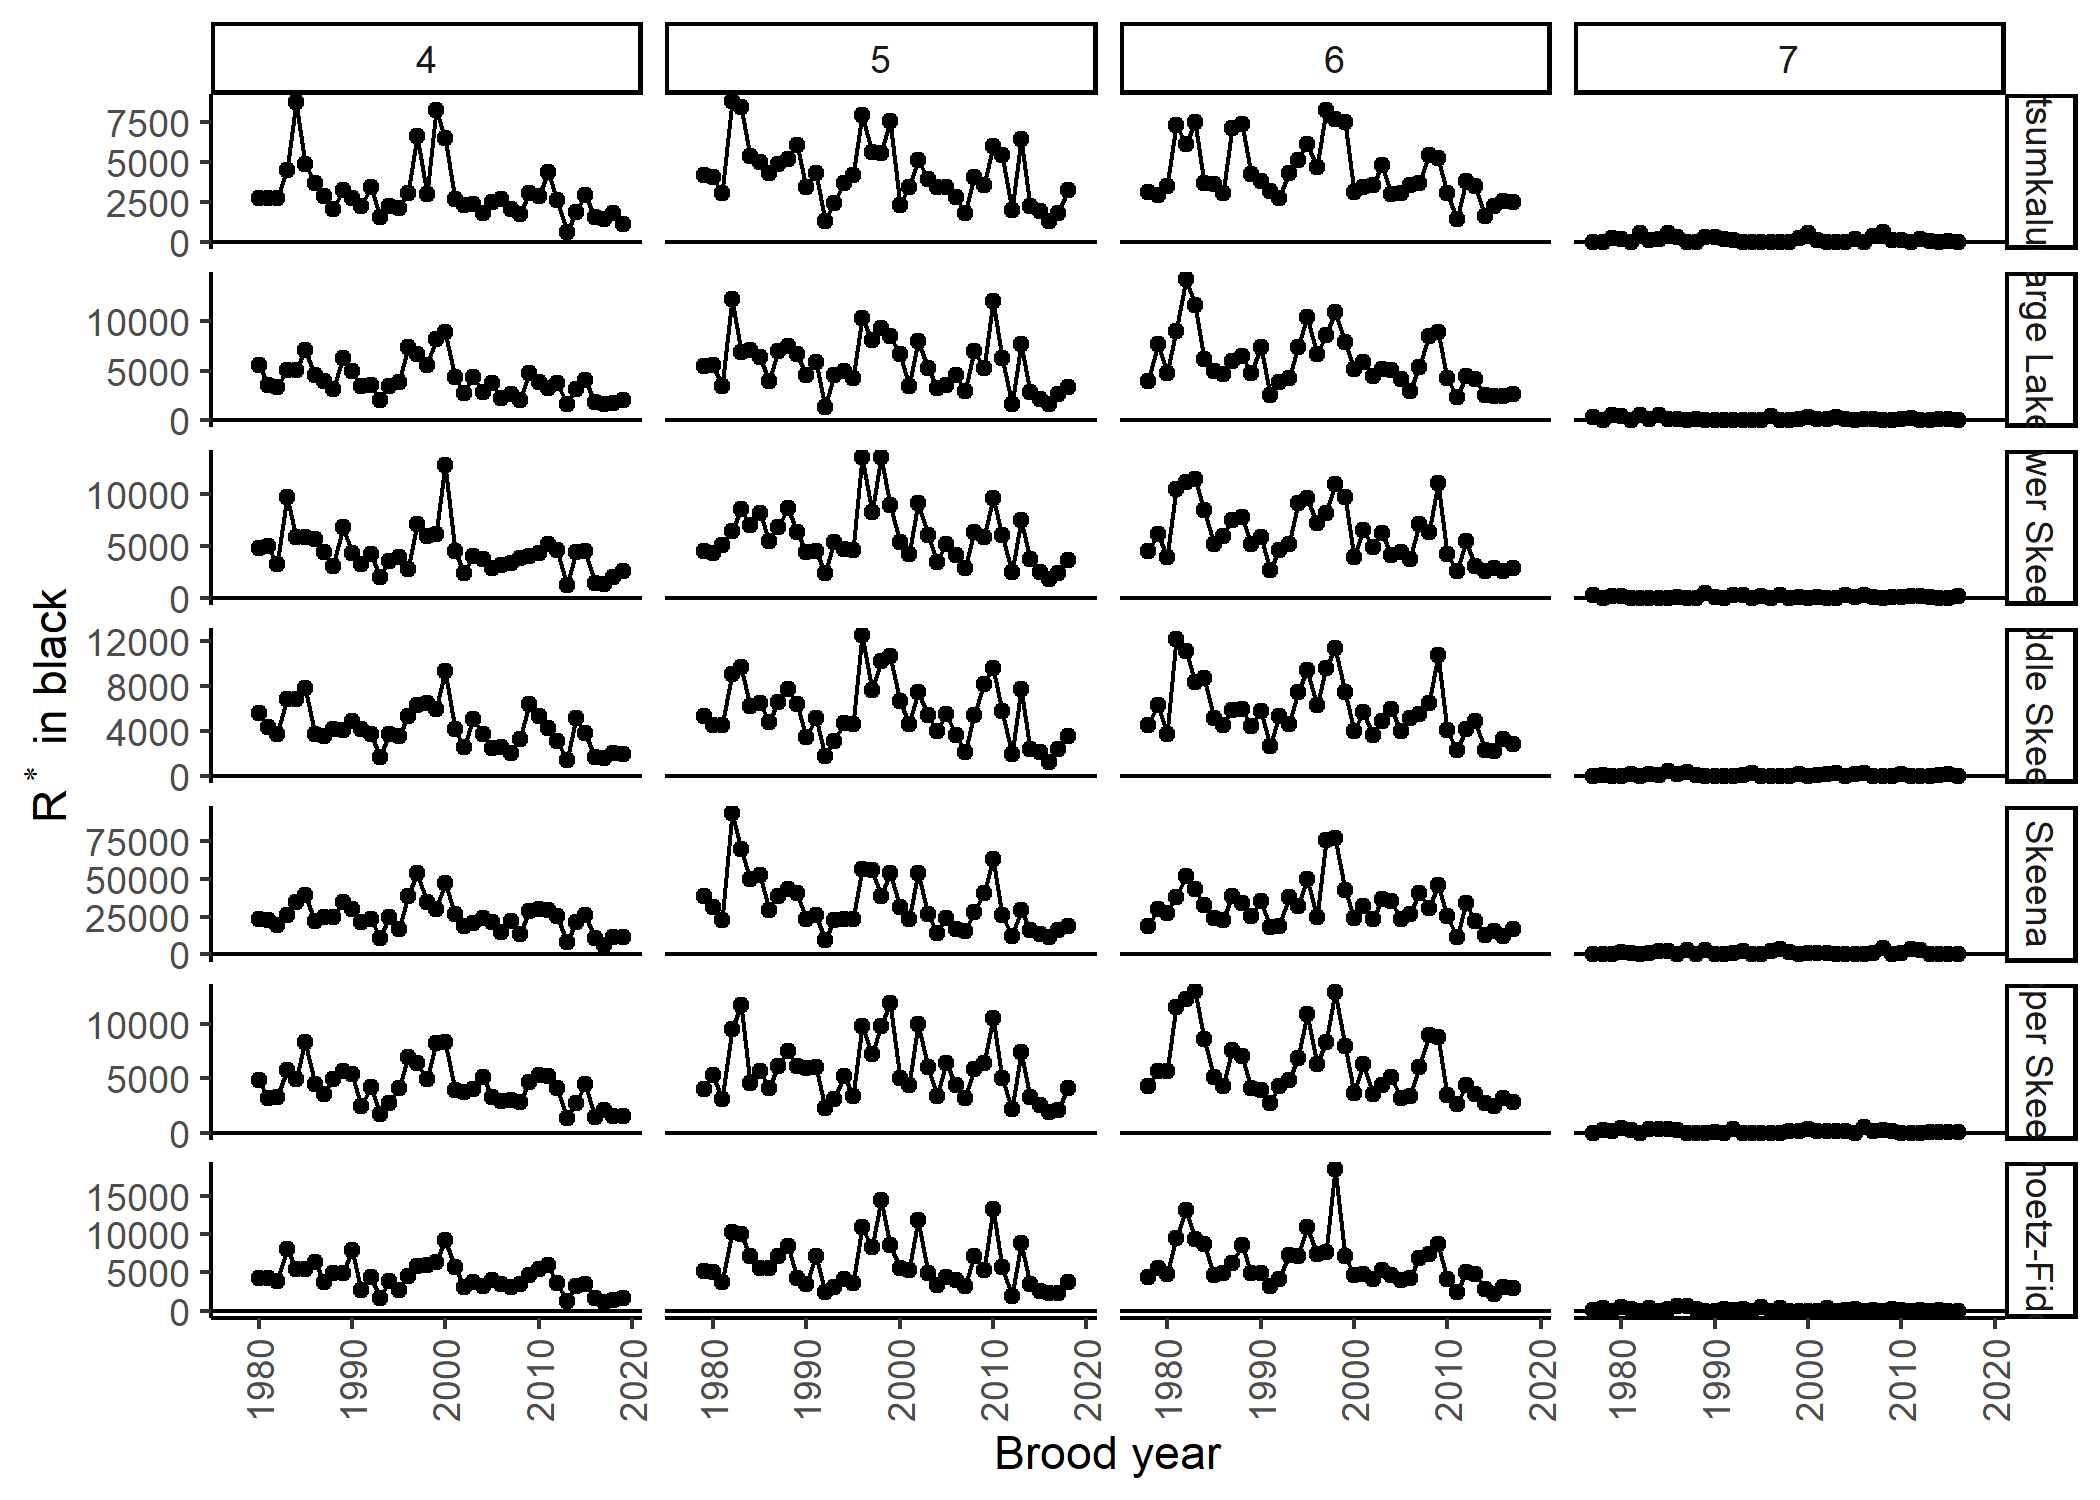
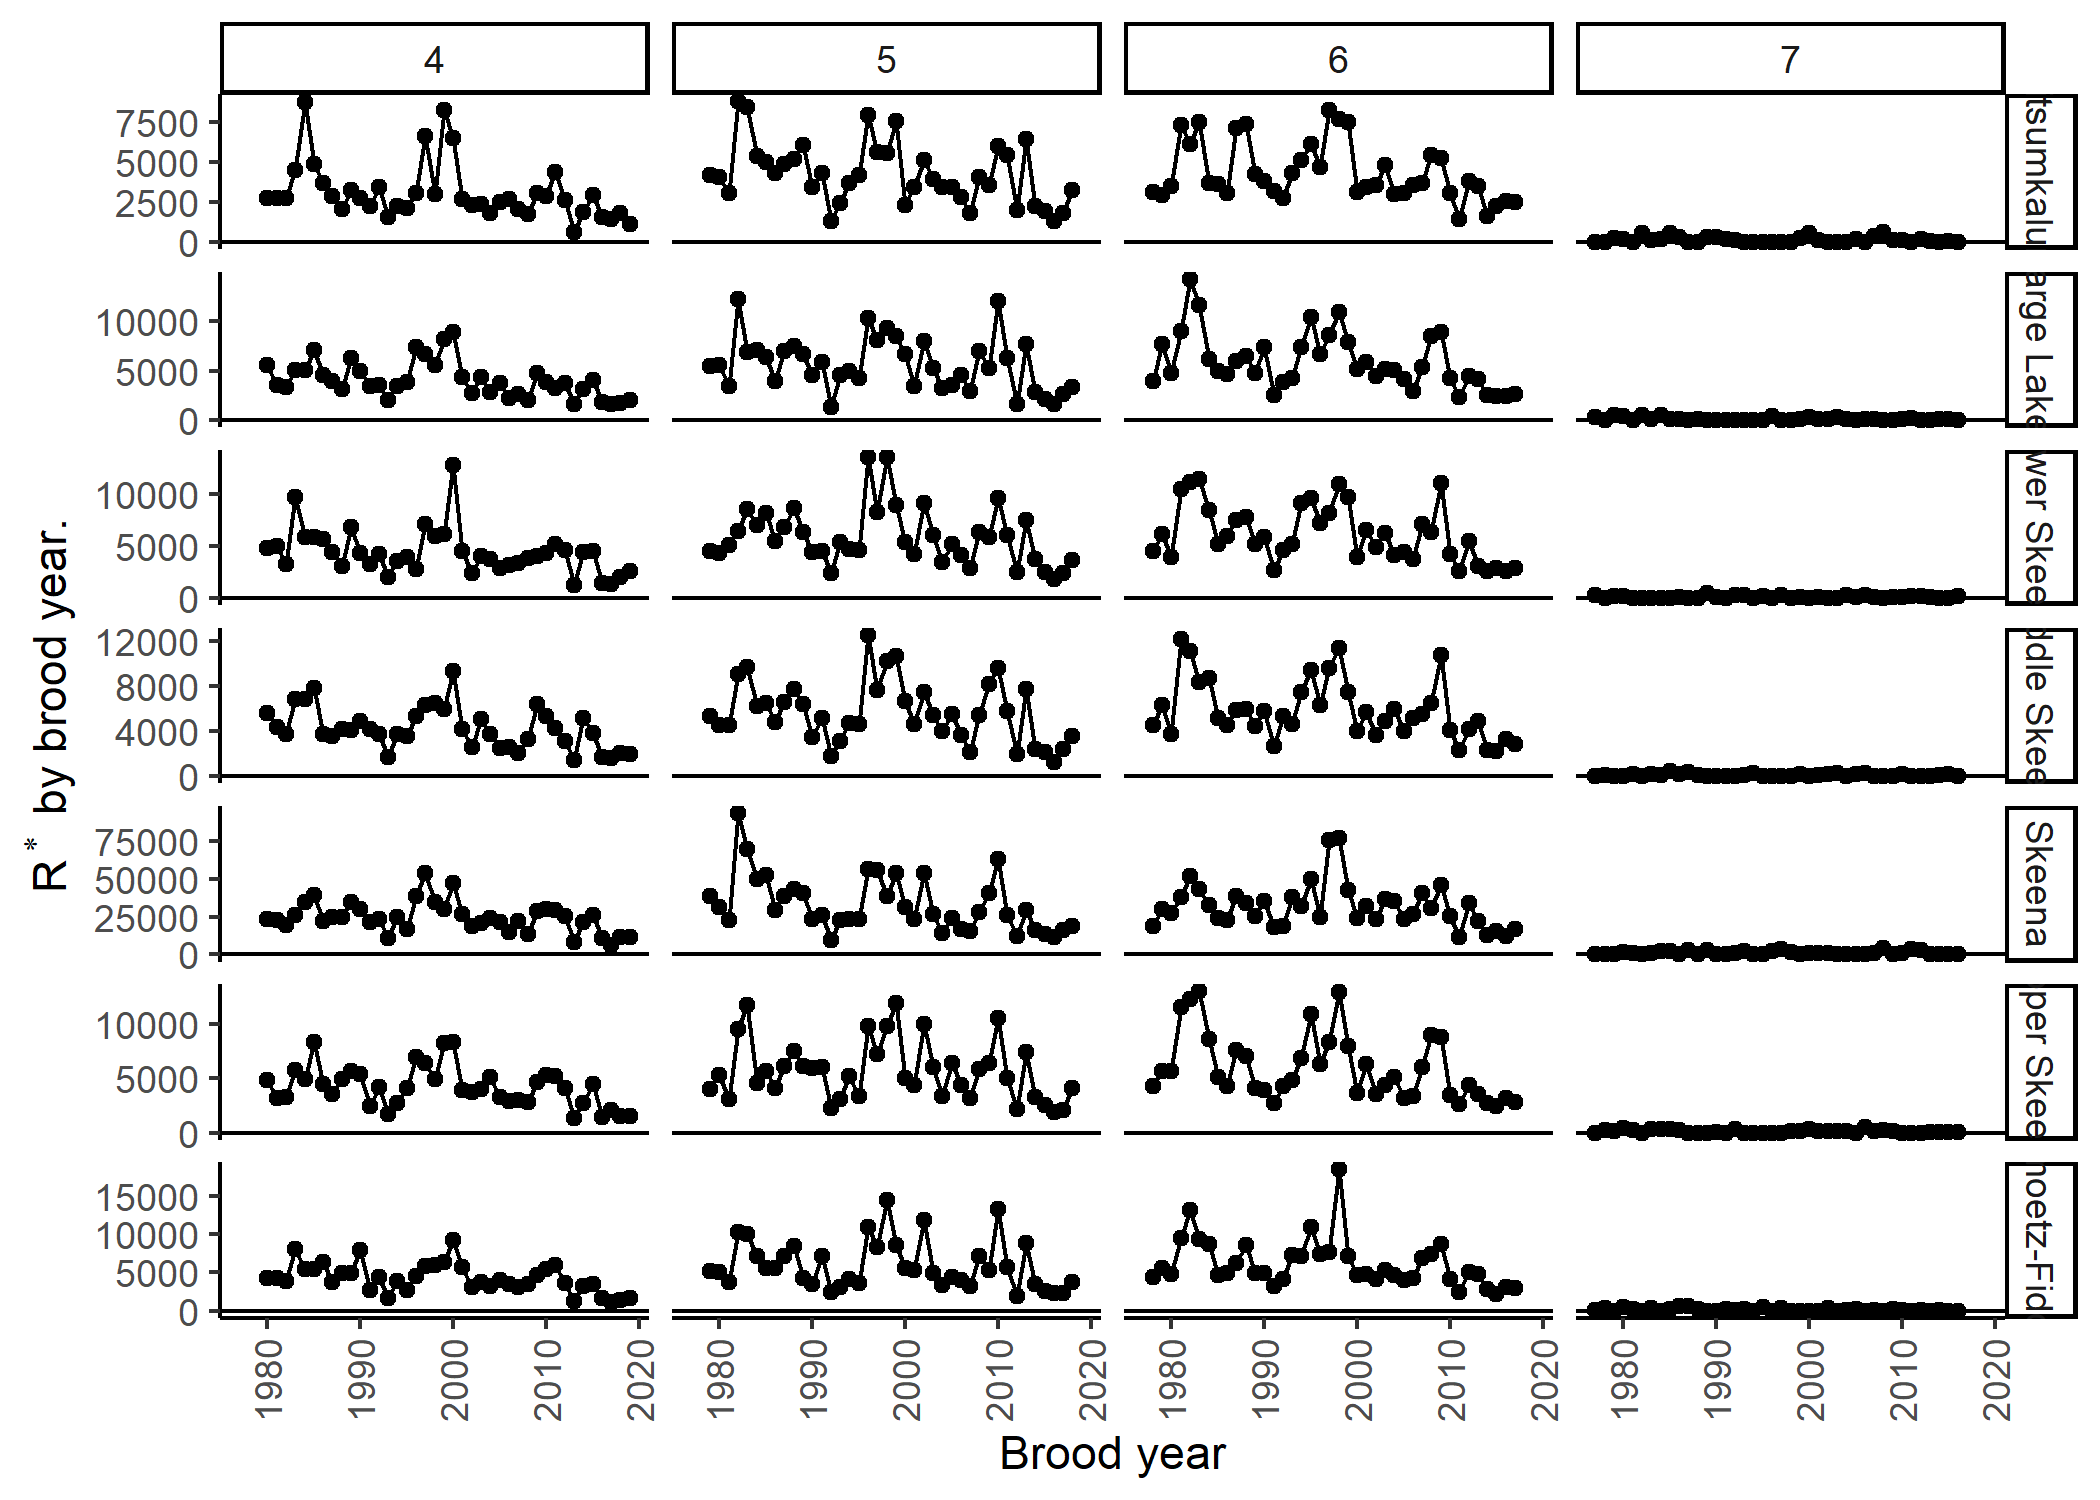
Add recruits example to readme

diff --git a/README.md b/README.md
@@ -451,7 +451,7 @@ ggplot( phi_N$df, aes(y = phi_N, x = y, group = i)) +
 
 <img src="man/figures/README-example_phi_Q-1.png" width="100%" />
 
-Recruits by return year
+Recruits by return year and brood year.
 
 ``` r
 R_star <- get_R_star( MatureRun = MatureRun$MatureRun, phi_Q = phi_Q$phi_Q)
@@ -491,10 +491,28 @@ ggplot( R_star$df, aes(y = R_star, x = b, group = i)) +
   geom_point() +
   geom_hline(aes(yintercept=0)) +
   xlab("Brood year") +
-  ylab(TeX("$R^*$ in black")) +
+  ylab(TeX("$R^*$ by brood year.")) +
   facet_grid( i ~ a, scales="free_y") +
   theme_classic() +
   theme(axis.text.x = element_text(angle=90, vjust=0.5))
 ```
 
 <img src="man/figures/README-example_R_star-2.png" width="100%" />
+
+Get recruits by brood year, summed across ages.
+
+``` r
+R <- get_R( R_star_b = R_star$R_star_b)
+
+ggplot( R$df, aes(y = R, x = b, group = i)) +
+  geom_line() +
+  geom_point() +
+  geom_hline(aes(yintercept=0)) +
+  ylab(TeX("Recruits, $R$")) +
+  xlab("Brood year") +
+  facet_wrap( ~i , scales="free_y") +
+  theme_classic() +
+  theme(axis.text.x = element_text(angle=90, vjust=0.5))
+```
+
+<img src="man/figures/README-example_R```````````````````````````````````````````````````````````````````````````````````````-1.png" width="100%" />
